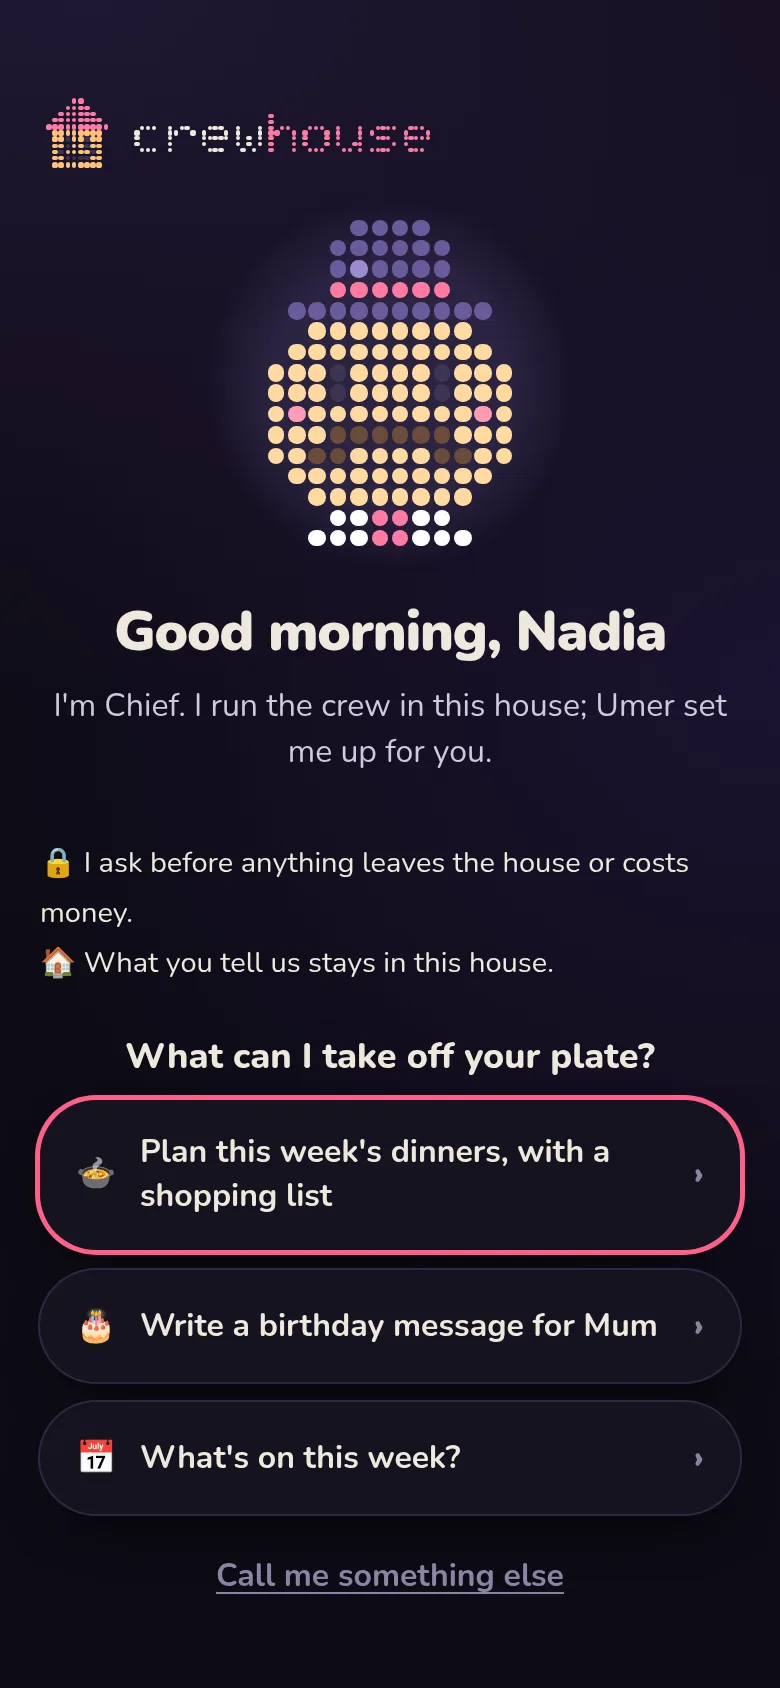
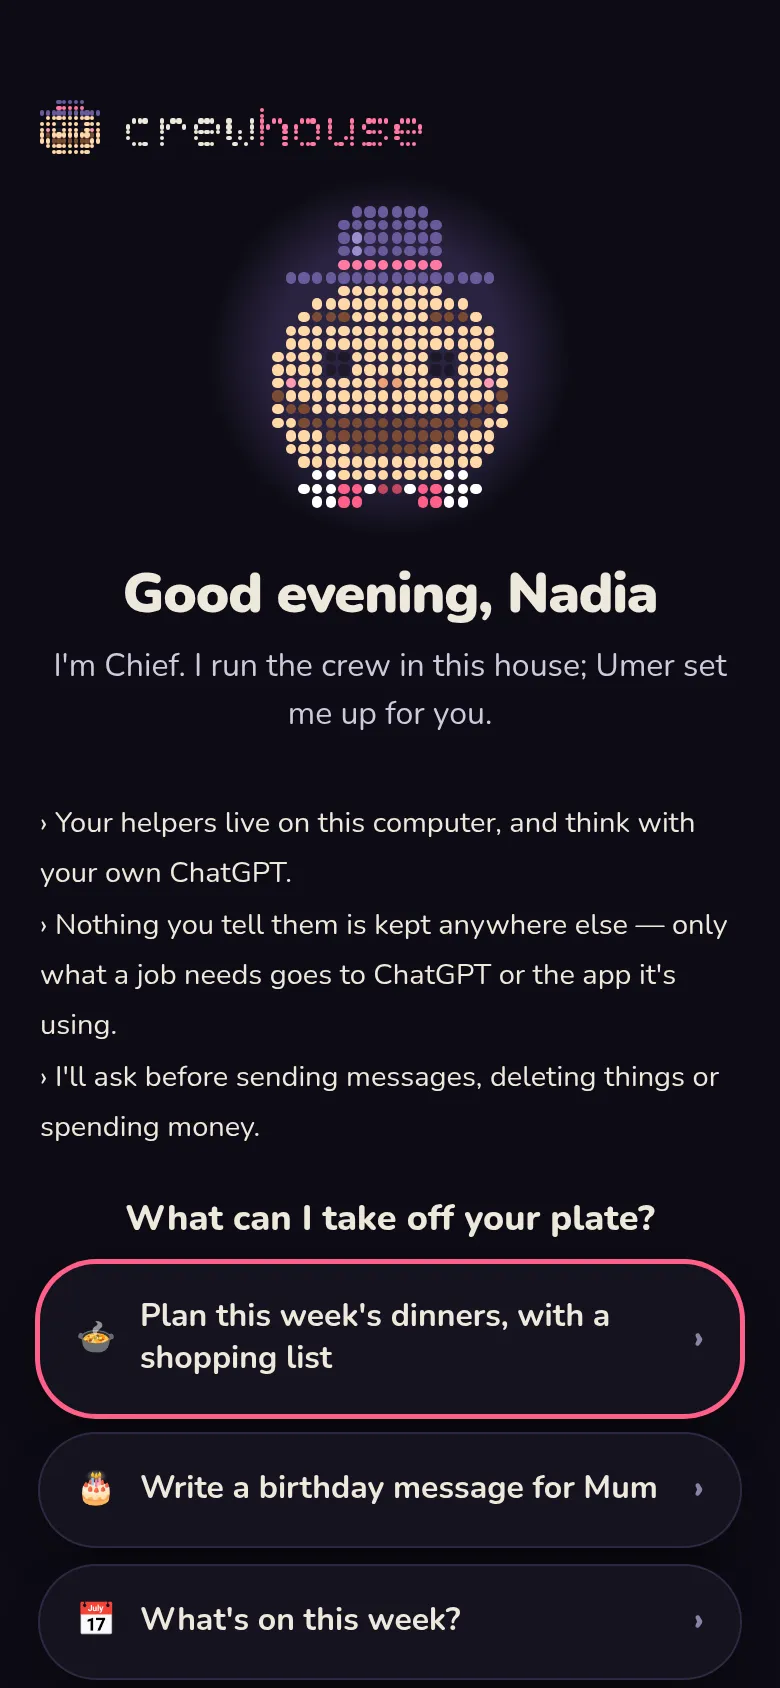
Say it runs at home, where a family meets it: one checked sentence in Hello, Settings and This phone (#87)
The same two sentences come from web/src/adapter.ts atHome() so the three
screens can't drift: helpers live on this computer and use the person's own
sign-ins, and what they're told is kept nowhere else — with the honest carve
out that what a job needs still goes to ChatGPT or the app it's using.
The phone says "the home computer", and its first run no longer calls the
family's computer "this computer". test/ui.test.ts pins the words and where
they're quoted; README's Hello screenshots are recaptured with them.

diff --git a/test/ui.test.ts b/test/ui.test.ts
@@ -161,6 +161,23 @@ test('first success: starters never dead-end, and the house setup is the owner\'
   assert.deepEqual(half.rows.filter((r) => !r.done).map((r) => r.key), ['google']);
 });
 
+test('the runs-at-home line is said once, in the same plain words, in all three places a family meets it', () => {
+  const [here, only] = A.atHome();
+  assert.equal(here, 'Your helpers live on this computer and use your own sign-ins.', 'no technical words, no vendor voice');
+  // honest about what does leave: what a job needs, to ChatGPT or the app it's using (README, "Nothing leaves your machine…")
+  assert.equal(only, "Nothing you tell them is kept anywhere else — only what a job needs goes to ChatGPT or the app it's using.");
+  assert.doesNotMatch(`${here} ${only}`, FORBIDDEN);
+  assert.match(A.atHome('the home computer')[0], /^Your helpers live on the home computer and use your own sign-ins\.$/, 'the phone names the home computer');
+  const web = readFileSync(join(import.meta.dirname, '..', 'web', 'src', 'main.tsx'), 'utf8');
+  assert.equal([...web.matchAll(/A\.atHome\(/g)].length, 2, 'Hello and Settings both quote it; nobody paraphrases it');
+  assert.match(web, /<div>› \{A\.atHome\(\)\[1\]\}<\/div>/, "it sits in Hello's promises, the same three rows as before");
+  assert.match(web, /<h1>Settings<\/h1>\s+<p className="mute small">\{A\.atHome\(\)\.join\(' '\)\}<\/p>/, 'Settings says it under the title, in the quiet style');
+  const app = readFileSync(join(import.meta.dirname, '..', 'mobile', 'App.tsx'), 'utf8');
+  assert.equal([...app.matchAll(/A\.atHome\('the home computer'\)/g)].length, 3, 'the phone quotes it at first run (two lines) and on This phone');
+  assert.match(app, /\{A\.atHome\('the home computer'\)\.join\(' '\)\}<\/T>\s+<T tone="mute" style=\{s\.small\}>🔒/, 'on This phone it sits above the lock line');
+  assert.doesNotMatch(app, /I run the crew on this computer/, 'the phone never calls the family computer "this computer"');
+});
+
 test('owner-only helpers stay with the owner', () => {
   assert.ok(!A.crew(state).some((h) => h.id === 'tracer'));
   assert.ok(!A.gallery(state).some((t: any) => t.id === 'tracer'));

diff --git a/mobile/App.tsx b/mobile/App.tsx
@@ -509,7 +509,9 @@ function Hello({ state, refresh, go }: Ctx) {
     <Page>
       <View style={{ alignItems: 'center' }}><ChiefArt mood="hello" size={150} /></View>
       <T style={[s.h1, s.centerText]}>{A.greeting()}{address.trim() ? `, ${address.trim()}` : ''}</T>
-      <T tone="ink2" style={s.centerText}>I'm Chief. I run the crew on this computer, using your ChatGPT to help with the work. I'll ask before sending messages, deleting things or spending money.</T>
+      <T tone="ink2" style={s.centerText}>I'm Chief. {A.atHome('the home computer')[0]}</T>
+      <T tone="mute" style={s.centerText}>{A.atHome('the home computer')[1]}</T>
+      <T tone="ink2" style={s.centerText}>I'll ask before sending messages, deleting things or spending money.</T>
       <TextInput style={[s.input, { color: useLook().ink, borderColor: useLook().line }]} value={address} onChangeText={setAddress} placeholder="What shall I call you?" placeholderTextColor={useLook().mute} />
       <View style={s.chips}>{['Sir', "Ma'am", ...(named ? [named] : [])].map((q) => <Btn key={q} label={q} onPress={() => setAddress(q)} />)}</View>
       <Label>What can I take off your plate?</Label>
@@ -1141,6 +1143,7 @@ function ThisPhone({ grant, status, onForget, onClear }: { grant: Grant; status:
         <T tone="mute">This phone keeps the last week of your chats, so you can read them while the home computer is off. Clearing removes them from this phone only; unpairing clears them too.</T>
         <View style={s.row}><Btn label="Clear" onPress={onClear} /></View>
       </Card>
+      <T tone="mute" style={s.small}>{A.atHome('the home computer').join(' ')}</T>
       <T tone="mute" style={s.small}>🔒 Only the computer this phone was paired with can read what it sends.</T>
       <Btn label="Unpair this phone" onPress={onForget} />
       <T tone="mute" style={s.small}>To take a phone's access away for good, remove it on the computer too: Settings, Phones.</T>

diff --git a/web/src/adapter.ts b/web/src/adapter.ts
@@ -39,6 +39,18 @@ export const clock = (t: number) => {
 const at = (t: number | string) => (typeof t === 'number' ? (t < 1e12 ? t * 1000 : t) : Date.parse(t));
 export const greeting = (h = new Date().getHours()) => (h < 5 ? 'Good evening' : h < 12 ? 'Good morning' : h < 18 ? 'Good afternoon' : 'Good evening');
 
+/**
+ * The runs-at-home promise, said once and read in three places: Hello, Settings, and the phone's This phone.
+ * Each part is true of the code as it ships — the database, the crew's notes and everyone's sign-ins live on this
+ * machine and crewd has no server of its own (README); a job's own words are the only thing sent to ChatGPT or a
+ * connected app (src/engine.ts, src/connections.ts); a phone notification carries no words at all (src/link.ts).
+ * `home` names the machine from wherever the line is read. Keep it free of technical words; test/ui.test.ts pins it.
+ */
+export const atHome = (home = 'this computer') => [
+  `Your helpers live on ${home} and use your own sign-ins.`,
+  "Nothing you tell them is kept anywhere else — only what a job needs goes to ChatGPT or the app it's using.",
+];
+
 /** A file's name as a person would say it: "files/mum-birthday_v2.mp4" → "Mum birthday v2". */
 export function pretty(path: string) {
   const b = (path.split('/').pop() ?? path).replace(/\.[a-z0-9]+$/i, '').replace(/[-_.]+/g, ' ').trim();

diff --git a/web/src/main.tsx b/web/src/main.tsx
@@ -82,7 +82,8 @@ function Hello({ state, refresh, night }: Ctx) {
       <h1>{A.greeting()}{address.trim() ? `, ${address.trim()}` : ''}</h1>
       <p className="lead">I'm Chief. I run the crew in this house{isOwner ? '.' : `; ${owner} set me up for you.`}</p>
       <div className="promises">
-        <div>› Your crew runs on this computer, using your ChatGPT to help with the work.</div>
+        <div>› Your helpers live on this computer, and think with your own ChatGPT.</div>
+        <div>› {A.atHome()[1]}</div>
         <div>› I'll ask before sending messages, deleting things or spending money.</div>
       </div>
       <h2 className="plate">What can I take off your plate?</h2>
@@ -801,6 +802,7 @@ function Settings({ state, me, refresh, tick, accounts, look, setLook, switchTo 
   return (
     <div className="page settings">
       <h1>Settings</h1>
+      <p className="mute small">{A.atHome().join(' ')}</p>
       {owner && <HomeSetup state={state} accounts={accounts} tick={tick} />}
       {state.members.length > 1 && (<><div className="label">Who's using this screen</div>
         <div className="chips">{state.members.map((m: Json) => <button key={m.id} className={`chip ${m.id === me ? 'on' : ''}`} onClick={() => switchTo(m.id)}>{m.name}</button>)}</div></>)}
